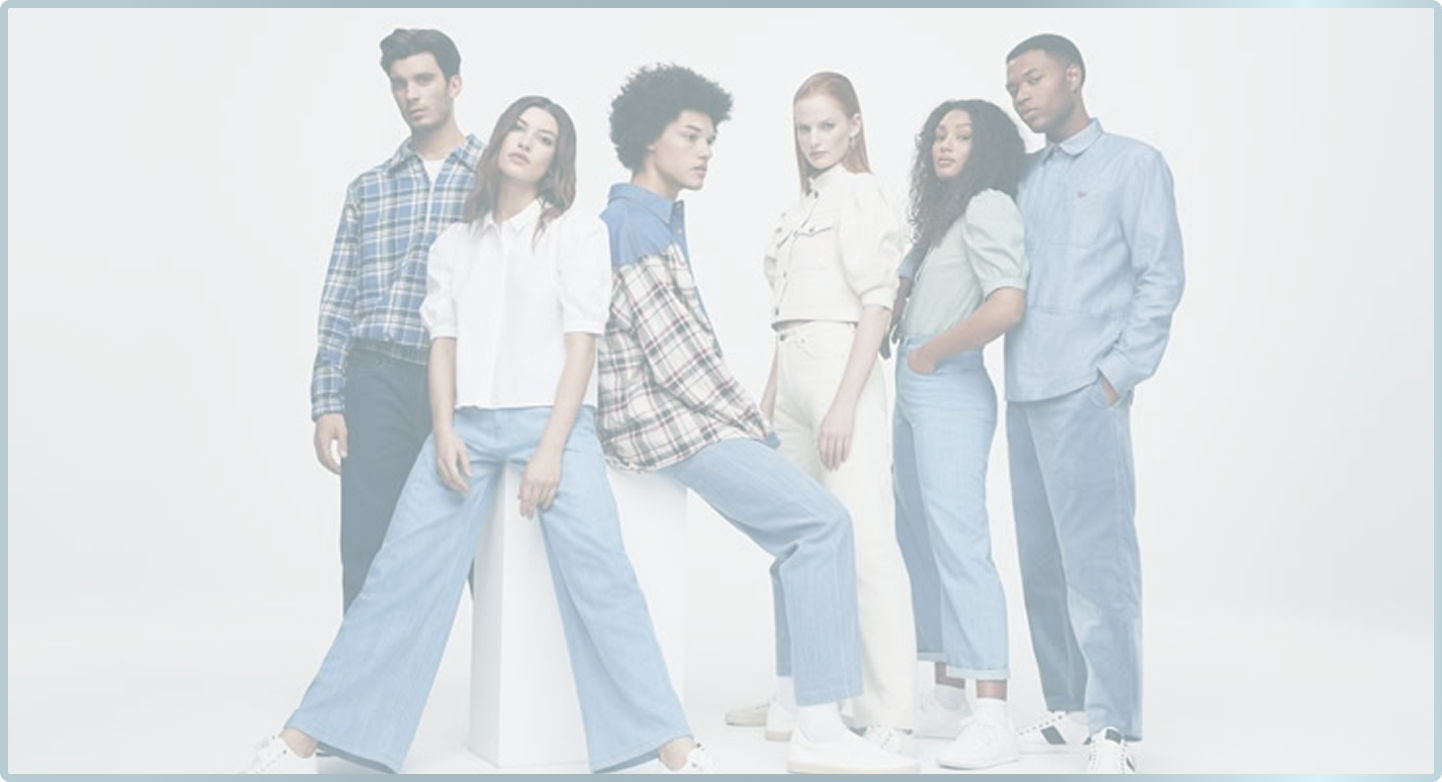
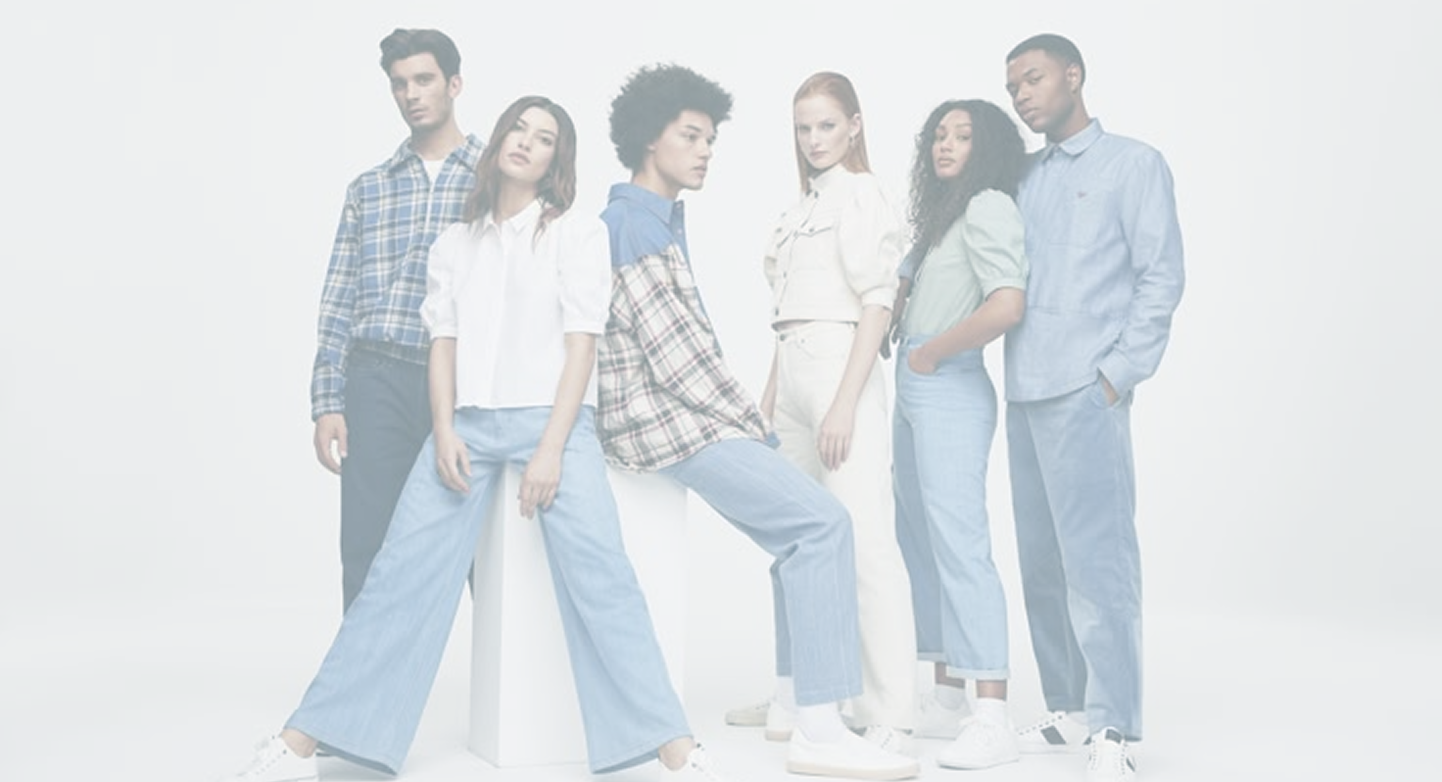
fix bug log

Changed region(s): [[0.0, 0.0, 1.0, 1.0]]

diff --git a/src/app/wardrobe/page.tsx b/src/app/wardrobe/page.tsx
@@ -34,7 +34,7 @@ import OutfitCarousel from "@/src/components/FavoriteCarousel";
 import { getUserProfile } from "@/src/services/user";
 import ModalPayment from "@/src/components/payment/ModalPayment";
 
-interface ApiItem {
+export interface ApiItem {
   _id: string;
   user: string;
   name: string;
@@ -80,11 +80,11 @@ const getUserItemsTyped: GetUserItemsFunction = getUserItems;
 type FileType = Parameters<GetProp<UploadProps, "beforeUpload">>[0];
 export default function Wardrobe() {
   const [isModalPaymentOpen, setIsModalPaymentOpen] = useState(false);
-  const [generatedOutfit, setGeneratedOutfit] = useState("");
   const [generatedOutfitImage, setGeneratedOutfitImage] = useState<string>(
     Model1.src
   );
   const [isGenerating, setIsGenerating] = useState(false);
+  const [isUploadingBody, setIsUploadingBody] = useState(false);
   const router = useRouter();
   const token = useAuthStore.getState().accessToken;
   const [isOpen, setIsOpen] = useState(false);
@@ -114,10 +114,9 @@ export default function Wardrobe() {
     type: "item" | "outfit";
   } | null>(null);
   const [loading, setLoading] = useState(false);
-  const [initOutfit, setInitOutfit] = useState(Model1.src);
   const [pageLoading, setPageLoading] = useState(true);
   const [itemsLoading, setItemsLoading] = useState(true);
-
+  const [items, setItems] = useState<ApiItem[]>([]);
   useEffect(() => {
     const token = localStorage.getItem("auth-storage");
     if (!token) router.push("/login");
@@ -129,7 +128,7 @@ export default function Wardrobe() {
             getUserItemsTyped(),
             getUserProfile(),
           ]);
-
+          setItems(itemsResponse.data);
           // Handle items
           const transformedData: CarouselItems = {
             uppers: (itemsResponse.data || [])
@@ -242,6 +241,7 @@ export default function Wardrobe() {
           [key]: [
             ...prev[key],
             {
+              id: result.data._id,
               imageSrc: file ? URL.createObjectURL(file) : imageUrl,
               imageAlt: file ? file.name : "Uploaded Image",
             },
@@ -308,16 +308,13 @@ export default function Wardrobe() {
   };
 
   const handleOutfitSelection = (outfit: string[]) => {
-    // Create a new selected items object
     const newSelectedItems: SelectedItems = {
       upper: null,
       downer: null,
       shoes: null,
     };
 
-    // For each outfit ID, try to find it in any of the categories
     outfit.forEach((outfitId) => {
-      // Try to find in uppers
       const upperMatch = carouselItems.uppers.find(
         (item) => item.id === outfitId
       );
@@ -495,14 +492,22 @@ export default function Wardrobe() {
                     beforeUpload={beforeUpload}
                     showUploadList={false}
                     onChange={(info) => {
-                      if (info.file.status !== "uploading") {
-                        console.log(info.file, info.fileList);
+                      if (info.file.status === "uploading") {
+                        setIsUploadingBody(true);
                       }
                       if (info.file.status === "done") {
+                        setIsUploadingBody(false);
                         message.success(
                           `${info.file.name} file uploaded successfully`
                         );
+                        // Set the generated outfit image from the response
+                        if (info.file.response?.data?.bodyImageUrl) {
+                          setGeneratedOutfitImage(
+                            info.file.response.data.bodyImageUrl
+                          );
+                        }
                       } else if (info.file.status === "error") {
+                        setIsUploadingBody(false);
                         message.error(`${info.file.name} file upload failed.`);
                       }
                     }}
@@ -512,14 +517,34 @@ export default function Wardrobe() {
                         cardSrc={generatedOutfitImage}
                         cardWidth={411}
                         cardHeight={617}
-                        className="w-[411px] h-[617px]"
+                        className="w-[411px] h-[617px] "
+                        classImage="!w-[98%] !h-[98%]"
                       />
                       <div className="absolute inset-0 bg-black bg-opacity-50 flex flex-col items-center justify-center opacity-0 group-hover:opacity-100 transition-opacity duration-300">
-                        <UploadOutlined className="text-4xl text-white mb-2" />
-                        <span className="text-white text-xl font-semibold">
-                          Tải lên hình ảnh của bạn
-                        </span>
+                        {isUploadingBody ? (
+                          <>
+                            <LoadingOutlined className="text-4xl text-white mb-2" />
+                            <span className="text-white text-xl font-semibold">
+                              Đang tải lên...
+                            </span>
+                          </>
+                        ) : (
+                          <>
+                            <UploadOutlined className="text-4xl text-white mb-2" />
+                            <span className="text-white text-xl font-semibold">
+                              Tải lên hình ảnh của bạn
+                            </span>
+                          </>
+                        )}
                       </div>
+                      {isUploadingBody && (
+                        <div className="absolute inset-0 bg-black bg-opacity-50 flex flex-col items-center justify-center">
+                          <LoadingOutlined className="text-4xl text-white mb-2" />
+                          <span className="text-white text-xl font-semibold">
+                            Đang tải lên...
+                          </span>
+                        </div>
+                      )}
                     </div>
                   </Upload>
                   <button
@@ -611,7 +636,7 @@ export default function Wardrobe() {
         <TypographyCustom text="AI GENERATE" size={80} />
         <Chat
           onOutfitSelect={handleOutfitSelection}
-          itemSelect={selectedItems}
+          items={items}
           handleGenerateOutfit={handleGenerateOutfit}
         />
       </section>

diff --git a/src/components/chat/index.tsx b/src/components/chat/index.tsx
@@ -11,7 +11,7 @@ import dayjs from "dayjs";
 import React, { useState, useRef, useEffect, use } from "react";
 import { GlitchReveal } from "../shared/GlitchTypo";
 import CardCustom from "../shared/Card/cardCustom";
-import { SelectedItems } from "@/src/app/wardrobe/page";
+import { ApiItem, SelectedItems } from "@/src/app/wardrobe/page";
 import ButtonDiscCustom from "@/src/components/shared/ButtonDIsc/discCustom";
 import PlaceHolderImage from "../../assets/images/placeholder.png";
 import Plus from "../../assets/icons/plus.png";
@@ -35,11 +35,11 @@ interface Message {
 
 interface ChatProps {
   onOutfitSelect?: (outfit: string[]) => void;
-  itemSelect?: SelectedItems;
+  items: ApiItem[];
   handleGenerateOutfit: () => void;
 }
 
-function Chat({ onOutfitSelect, itemSelect, handleGenerateOutfit }: ChatProps) {
+function Chat({ onOutfitSelect, items, handleGenerateOutfit }: ChatProps) {
   const [value, setValue] = useState("");
   const [messages, setMessages] = useState<Message[]>([]);
   const [loading, setLoading] = useState(false);
@@ -108,27 +108,12 @@ function Chat({ onOutfitSelect, itemSelect, handleGenerateOutfit }: ChatProps) {
       const botResponses: ChatResponse = await Chatting({ question: value });
       const outfitItems =
         botResponses.outfit?.map((id) => {
-          let imageUrl = PlaceHolderImage.src;
-          let description = "";
-          let link = "";
-          if (itemSelect?.upper?.id === id) {
-            imageUrl = itemSelect.upper.imageSrc;
-            description = itemSelect.upper.description || "";
-            link = itemSelect.upper.link || "";
-          } else if (itemSelect?.downer?.id === id) {
-            imageUrl = itemSelect.downer.imageSrc;
-            description = itemSelect.downer.description || "";
-            link = itemSelect.downer.link || "";
-          } else if (itemSelect?.shoes?.id === id) {
-            imageUrl = itemSelect.shoes.imageSrc;
-            description = itemSelect.shoes.description || "";
-            link = itemSelect.shoes.link || "";
-          }
+          const item = items.find((item) => item._id === id);
           return {
             _id: id,
-            imageUrl,
-            description,
-            link,
+            imageUrl: item?.imageLink || PlaceHolderImage.src,
+            description: item?.description || "",
+            link: item?.link || "",
           };
         }) || [];
 
@@ -305,18 +290,7 @@ function Chat({ onOutfitSelect, itemSelect, handleGenerateOutfit }: ChatProps) {
                         {message.outfit.map((item, index) => (
                           <div key={index} className="message-outfit relative">
                             <CardCustom
-                              cardSrc={
-                                item._id === itemSelect?.upper?.id
-                                  ? itemSelect?.upper?.imageSrc ||
-                                    PlaceHolderImage.src
-                                  : item._id === itemSelect?.downer?.id
-                                  ? itemSelect?.downer?.imageSrc ||
-                                    PlaceHolderImage.src
-                                  : item._id === itemSelect?.shoes?.id
-                                  ? itemSelect?.shoes?.imageSrc ||
-                                    PlaceHolderImage.src
-                                  : item.imageUrl || PlaceHolderImage.src
-                              }
+                              cardSrc={item.imageUrl || PlaceHolderImage.src}
                               cardAlt={item._id}
                               cardWidth={100}
                               cardHeight={100}

diff --git a/src/components/shared/ModalEvent/modalEvent.tsx b/src/components/shared/ModalEvent/modalEvent.tsx
@@ -80,39 +80,46 @@ function ModalEvent({
     }
   };
 
-  const handleSave = () => {
-    form
-      .validateFields()
-      .then((values) => {
-        if (onEventCreate) {
-          const eventData = {
-            title: values.title,
-            start: dayjs(values.startTime).format("YYYY-MM-DD HH:mm"),
-            end: dayjs(values.endTime).format("YYYY-MM-DD HH:mm"),
-            location: values.location,
-            description: values.description,
-            outfitId: selectedOutfit?._id,
-            imageUrl: selectedOutfit?.imageUrl,
-          };
-          onEventCreate(eventData);
-          addEvent({
-            outfit_id: {
-              _id: selectedOutfit?._id || "",
-              imageUrl: selectedOutfit?.imageUrl || "",
-            },
-            start_time: dayjs(eventData.start).toDate(),
-            end_time: dayjs(eventData.end).toDate(),
-            description: eventData.description || "",
-            location: eventData.location || "",
-          });
-        }
-        handleCancle();
-        form.resetFields();
-        setSelectedOutfit(null);
-      })
-      .catch((errorInfo) => {
-        console.log("Có lỗi", errorInfo);
+  const handleSave = async () => {
+    try {
+      const values = await form.validateFields();
+
+      const eventData = {
+        title: values.title,
+        start: dayjs(values.startTime).format("YYYY-MM-DD HH:mm"),
+        end: dayjs(values.endTime).format("YYYY-MM-DD HH:mm"),
+        location: values.location,
+        description: values.description,
+        outfitId: selectedOutfit?._id,
+        imageUrl: selectedOutfit?.imageUrl,
+      };
+
+      // First make the API call
+      const response = await addEvent({
+        outfit_id: {
+          _id: selectedOutfit?._id || "",
+          imageUrl: selectedOutfit?.imageUrl || "",
+        },
+        start_time: dayjs(eventData.start).toDate(),
+        end_time: dayjs(eventData.end).toDate(),
+        description: eventData.description || "",
+        location: eventData.location || "",
       });
+
+      // If API call is successful, update the UI
+      if (response && onEventCreate) {
+        onEventCreate(eventData);
+        message.success("Sự kiện đã được tạo thành công");
+      }
+
+      // Close modal and reset form
+      handleCancle();
+      form.resetFields();
+      setSelectedOutfit(null);
+    } catch (error: any) {
+      console.error("Error creating event:", error);
+      message.error(error.message || "Có lỗi xảy ra khi tạo sự kiện");
+    }
   };
 
   const handleOutfitSelect = (outfit: Outfit) => {

diff --git a/src/components/payment/ModalPayment.tsx b/src/components/payment/ModalPayment.tsx
@@ -32,11 +32,11 @@ const ModalPayment: React.FC<ModalPaymentProps> = ({ isOpen, onClose }) => {
       className="pricing-modal !w-[65vw]"
       title={
         <div className="text-center">
-          <div className="text-indigo-500 font-semibold text-lg mb-2">
-            Pricing Plans
+          <div className="text-[var(--border-primary)] font-semibold text-lg mb-2">
+            Các gói dịch vụ
           </div>
           <h2 className="text-3xl font-bold mb-2">
-            Choose the perfect plan for your needs
+            Hãy chọn gói phù hợp nhất với nhu cầu của bạn nhé!
           </h2>
         </div>
       }
@@ -45,9 +45,9 @@ const ModalPayment: React.FC<ModalPaymentProps> = ({ isOpen, onClose }) => {
         {plans.map((plan) => (
           <div
             key={plan.name}
-            className={`relative bg-indigo-50 rounded-2xl p-8 flex flex-col items-center shadow-md border-2 ${
+            className={`relative bg-indigo-50 rounded-2xl p-8 flex flex-col items-center justify-between shadow-md border-2 ${
               plan.highlight
-                ? "border-yellow-400 bg-white scale-105 z-10"
+                ? "border-[var(--border-primary)] bg-white scale-105 z-10"
                 : "border-transparent"
             }`}
           >
@@ -72,7 +72,7 @@ const ModalPayment: React.FC<ModalPaymentProps> = ({ isOpen, onClose }) => {
             </ul>
             <Button
               type="primary"
-              className="w-full !bg-indigo-500 !border-indigo-500 !rounded-lg !h-12 !text-lg font-semibold"
+              className="w-full !bg-[var(--border-primary)] !border-indigo-500 !rounded-lg !h-12 !text-lg font-semibold"
               size="large"
               onClick={() => handleChoose(plan)}
             >

diff --git a/src/components/shared/Card/cardCustom.tsx b/src/components/shared/Card/cardCustom.tsx
@@ -11,6 +11,7 @@ interface CardCustom {
   cardWidth?: number;
   cardHeight?: number;
   onClick?: () => void;
+  classImage?: string;
 }
 
 const CardCustom: React.FC<CardCustom> = ({
@@ -20,6 +21,7 @@ const CardCustom: React.FC<CardCustom> = ({
   cardWidth = 24,
   cardHeight = 24,
   onClick,
+  classImage,
 }) => {
   return (
     <div
@@ -27,14 +29,14 @@ const CardCustom: React.FC<CardCustom> = ({
       onClick={onClick}
     >
       <div className=" w-full h-full rounded-sm bg-main-background "></div>
-      <div className="absolute  top-1/2 left-1/2 transform -translate-x-1/2 -translate-y-1/2">
+      <div className="absolute  top-1/2 left-1/2 transform -translate-x-1/2 -translate-y-1/2 overflow-hidden">
         <Image
           preview={false}
           src={cardSrc}
           alt={cardAlt}
           width={cardWidth}
           height={cardHeight}
-          className="!w-[80%] !h-[80%] !object-cover !absolute !top-1/2 !left-1/2 !transform -translate-x-1/2 -translate-y-1/2  "
+          className={`!w-[80%] !h-[80%] !object-cover !absolute !top-1/2 !left-1/2 !transform -translate-x-1/2 -translate-y-1/2 ${classImage} `}
         />
       </div>
     </div>

diff --git a/src/app/page.tsx b/src/app/page.tsx
@@ -274,6 +274,7 @@ export default function Home() {
             cardWidth={1450}
             cardHeight={782}
             className="w-[1442px] h-[782px]"
+            classImage="!w-[1432px] !h-[770px]"
           />
           <p className="absolute bottom-0 left-10 text-3xl text-primary font-semibold mb-6 w-[70%] text-start">
             Chúng tôi là một nhóm sinh viên từ Đại học FPT Đà Nẵng, và đây là dự
